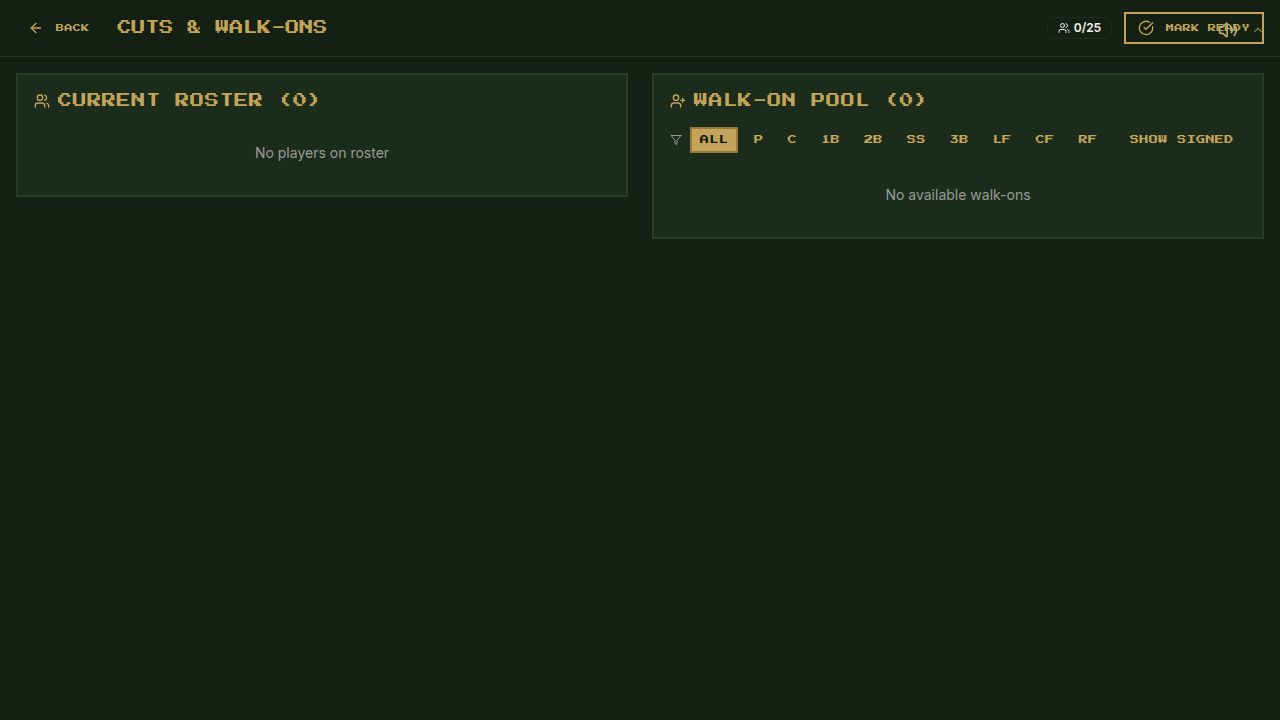
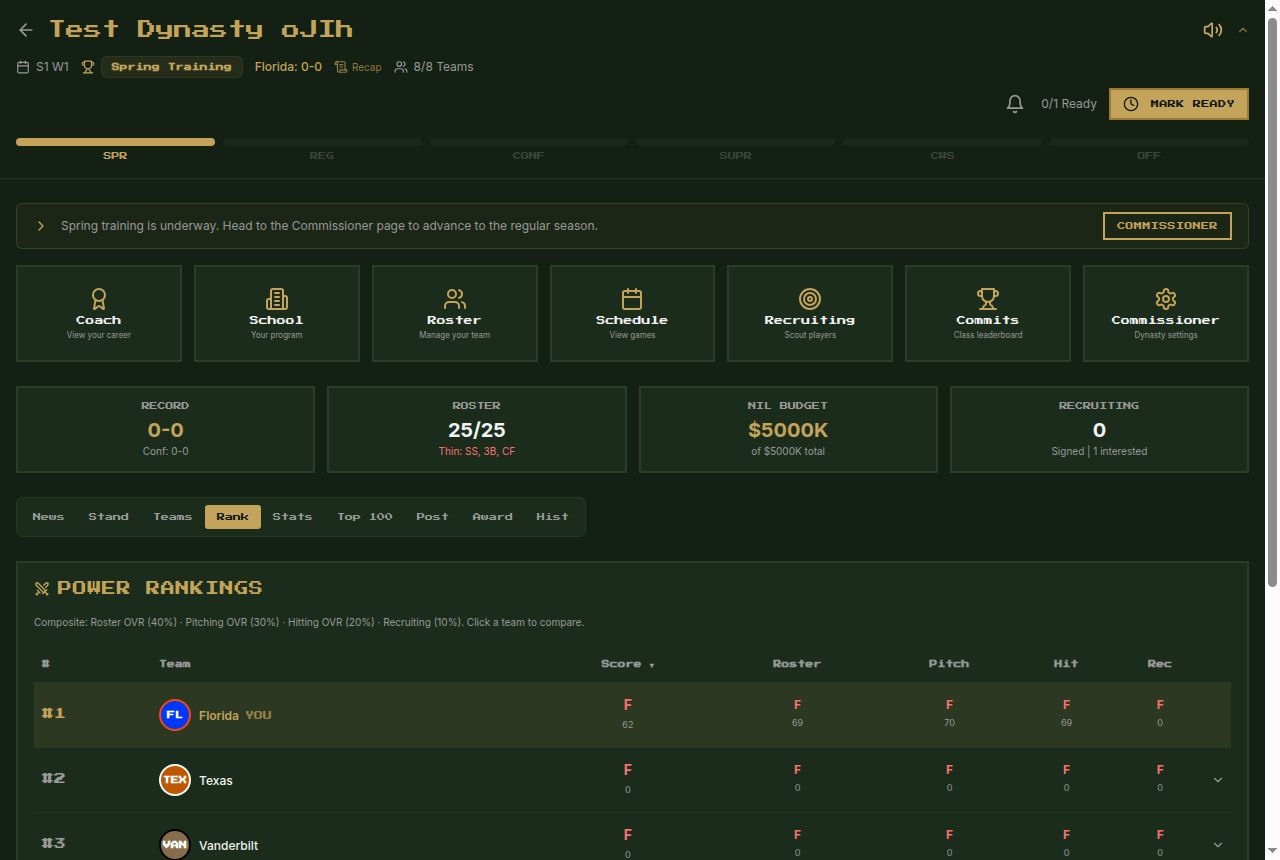
Task #260: Refresh homepage with updated feature copy and new in-game screenshots
## Screenshots (client/public/screenshots/) — 6 distinct files, each mapping to a unique view
- recruiting.jpg — recruiting board with fog-of-war, position/star filters, pipeline views
- commissioner.jpg — commissioner dashboard showing phase control, Advance Week, Quick Actions
- rankings.jpg — RESTORED original power rankings table (team grades, week trends, composite scores)
- player-card.jpg — player profile card with attributes, ability badges, career stats
- walkons.jpg — Cuts & Walk-Ons offseason phase with roster + walk-on pool
- pipeline.jpg — (original, unchanged)
- postseason.jpg removed (was a duplicate of commissioner.jpg)

## DEMO_PHASES — 8 phases, each with a distinct, accurately labelled screenshot
1. SCOUTING REVEAL → recruiting.jpg (context: RECRUITING · SEASON 1 · WEEK 2)
2. PHONE CALL → recruiting.jpg (context: RECRUITING · SEASON 1 · WEEK 3)
3. CAMPUS VISIT → recruiting.jpg (context: RECRUITING · SEASON 1 · WEEK 5)
4. SCHOLARSHIP OFFER → recruiting.jpg (context: RECRUITING · SEASON 1 · WEEK 7)
5. REGULAR SEASON → commissioner.jpg (context: REGULAR SEASON · SEASON 1 · WEEK 1)
6. POWER RANKINGS → rankings.jpg (context: REGULAR SEASON · SEASON 1 · WEEK 8) ← distinct image!
7. PLAYER PROFILE → player-card.jpg (context: REGULAR SEASON · SEASON 1 · WEEK 6) ← distinct image!
8. TRANSFER PORTAL → walkons.jpg (context: OFFSEASON · SEASON 1) ← distinct image!

## GamePreviewTerminal (replaces HeroVideoPlayer + static chrome label)
[…]

diff --git a/client/src/pages/landing.tsx b/client/src/pages/landing.tsx
@@ -160,19 +160,9 @@ export default function LandingPage() {
         {/* ── GAME PREVIEW TERMINAL ─────────────────────────── */}
         <section className="px-4 pb-20">
           <div className="container mx-auto max-w-4xl">
-            <div className="border-2 border-gold/20 bg-card/60" style={{ boxShadow: "0 0 40px rgba(212,168,67,0.08)" }}>
-              <div className="flex items-center gap-2 px-4 py-3 border-b border-gold/15 bg-black/30">
-                <div className="w-2.5 h-2.5 rounded-full bg-red-500/70" />
-                <div className="w-2.5 h-2.5 rounded-full bg-amber-500/70" />
-                <div className="w-2.5 h-2.5 rounded-full bg-green-500/70" />
-                <span className="font-pixel text-[8px] text-gold/40 ml-2 tracking-widest" id="terminal-phase-label">RECRUITING · SEASON 1 · WEEK 4</span>
-              </div>
-              <div className="p-0 overflow-hidden">
-                <HeroVideoPlayer />
-              </div>
-            </div>
+            <GamePreviewTerminal />
             <p className="text-center text-[10px] font-pixel text-muted-foreground/50 mt-3 tracking-wider">
-              REAL PLAYERS · FOG OF WAR SCOUTING · INTEREST TRACKING
+              REAL PLAYERS · FULL SEASON CYCLE · FOG OF WAR RECRUITING
             </p>
           </div>
         </section>
@@ -441,22 +431,22 @@ export default function LandingPage() {
   );
 }
 
-// ── HERO VIDEO PLAYER ─────────────────────────────────────────
+// ── GAME PREVIEW TERMINAL ─────────────────────────────────────
 
 const DEMO_PHASES = [
-  { label: "SCOUTING REVEAL", sub: "Uncover hidden recruit ratings", img: "/screenshots/recruiting.jpg", alt: "Recruiting board with fog-of-war scouting and position filters" },
-  { label: "PHONE CALL", sub: "Build interest with your top targets", img: "/screenshots/recruiting.jpg", alt: "Recruiting board showing interest tracking and watchlist" },
-  { label: "CAMPUS VISIT", sub: "Show off your facilities", img: "/screenshots/recruiting.jpg", alt: "Recruiting pipeline with campus visit stage and interest bars" },
-  { label: "SCHOLARSHIP OFFER", sub: "Close the deal with NIL money", img: "/screenshots/recruiting.jpg", alt: "Recruiting board showing scholarship offer actions" },
-  { label: "REGULAR SEASON", sub: "Simulate games and track standings", img: "/screenshots/commissioner.jpg", alt: "Commissioner dashboard showing league phase, advance week, and quick actions" },
-  { label: "POWER RANKINGS", sub: "Composite scores updated weekly", img: "/screenshots/commissioner.jpg", alt: "Commissioner dashboard showing league standings and power rankings" },
-  { label: "COLLEGE WORLD SERIES", sub: "Best-of-3 bracket for the title", img: "/screenshots/postseason.jpg", alt: "Commissioner dashboard showing season phase, advance week controls, and postseason progression" },
-  { label: "TRANSFER PORTAL", sub: "Sign portal players or lose yours", img: "/screenshots/walkons.jpg", alt: "Cuts and Walk-Ons offseason phase with roster management and walk-on pool" },
+  { label: "SCOUTING REVEAL", sub: "Uncover hidden recruit ratings", context: "RECRUITING · SEASON 1 · WEEK 2", img: "/screenshots/recruiting.jpg", alt: "Recruiting board with fog-of-war scouting, position filters, and stage-view buttons" },
+  { label: "PHONE CALL", sub: "Build interest with your top targets", context: "RECRUITING · SEASON 1 · WEEK 3", img: "/screenshots/recruiting.jpg", alt: "Recruiting board showing interest tracking, watchlist, and weekly action limits" },
+  { label: "CAMPUS VISIT", sub: "Show off your facilities to top recruits", context: "RECRUITING · SEASON 1 · WEEK 5", img: "/screenshots/recruiting.jpg", alt: "Recruiting pipeline with campus visit stage and contested-recruit filter" },
+  { label: "SCHOLARSHIP OFFER", sub: "Close the deal with NIL money", context: "RECRUITING · SEASON 1 · WEEK 7", img: "/screenshots/recruiting.jpg", alt: "Recruiting board showing scholarship offer actions and commit tracking" },
+  { label: "REGULAR SEASON", sub: "Simulate games and track standings", context: "REGULAR SEASON · SEASON 1 · WEEK 1", img: "/screenshots/commissioner.jpg", alt: "Commissioner dashboard showing Spring Training phase, Advance Week button, and Quick Actions menu" },
+  { label: "POWER RANKINGS", sub: "Composite scores updated every week", context: "REGULAR SEASON · SEASON 1 · WEEK 8", img: "/screenshots/rankings.jpg", alt: "In-game power rankings table showing team grades, week-over-week trends, and composite scores" },
+  { label: "PLAYER PROFILE", sub: "Deep stats on every player on your roster", context: "REGULAR SEASON · SEASON 1 · WEEK 6", img: "/screenshots/player-card.jpg", alt: "In-game player profile card showing attributes, special ability badges, and career season stats" },
+  { label: "TRANSFER PORTAL", sub: "Sign portal players or lose yours", context: "OFFSEASON · SEASON 1", img: "/screenshots/walkons.jpg", alt: "Cuts and Walk-Ons offseason page showing roster panel and walk-on pool with position filters" },
 ];
 
 const PHASE_DURATION = 3200;
 
-function HeroVideoPlayer() {
+function GamePreviewTerminal() {
   const [phaseIndex, setPhaseIndex] = useState(0);
   const [visible, setVisible] = useState(true);
 
@@ -478,35 +468,50 @@ function HeroVideoPlayer() {
   const phase = DEMO_PHASES[phaseIndex];
 
   return (
-    <div className="relative overflow-hidden">
-      <img
-        key={phase.img}
-        src={phase.img}
-        alt={phase.alt}
-        className="w-full h-auto block"
-        style={{
-          opacity: visible ? 1 : 0,
-          transition: "opacity 0.28s ease",
-        }}
-      />
-      <div
-        className="absolute top-0 left-0 right-0 flex items-center gap-3 px-4 py-2.5 bg-black/70 border-b border-gold/20"
-        style={{
-          opacity: visible ? 1 : 0,
-          transform: visible ? "translateY(0)" : "translateY(-6px)",
-          transition: "opacity 0.28s ease, transform 0.28s ease",
-        }}
-      >
-        <span className="font-pixel text-[9px] text-gold tracking-widest">{phase.label}</span>
-        <span className="text-[9px] text-muted-foreground hidden sm:inline">—</span>
-        <span className="text-[9px] text-muted-foreground hidden sm:inline">{phase.sub}</span>
-        <div className="ml-auto flex gap-1">
-          {DEMO_PHASES.map((_, i) => (
-            <div
-              key={i}
-              className={`h-1 rounded-full transition-all duration-300 ${i === phaseIndex ? "w-5 bg-gold" : "w-1.5 bg-gold/25"}`}
-            />
-          ))}
+    <div className="border-2 border-gold/20 bg-card/60" style={{ boxShadow: "0 0 40px rgba(212,168,67,0.08)" }}>
+      {/* Chrome bar — context label synced to active phase */}
+      <div className="flex items-center gap-2 px-4 py-3 border-b border-gold/15 bg-black/30">
+        <div className="w-2.5 h-2.5 rounded-full bg-red-500/70" />
+        <div className="w-2.5 h-2.5 rounded-full bg-amber-500/70" />
+        <div className="w-2.5 h-2.5 rounded-full bg-green-500/70" />
+        <span
+          className="font-pixel text-[8px] text-gold/40 ml-2 tracking-widest transition-opacity duration-300"
+          style={{ opacity: visible ? 1 : 0 }}
+        >
+          {phase.context}
+        </span>
+      </div>
+      {/* Screenshot cycling */}
+      <div className="relative overflow-hidden">
+        <img
+          key={phase.img + phaseIndex}
+          src={phase.img}
+          alt={phase.alt}
+          className="w-full h-auto block"
+          style={{
+            opacity: visible ? 1 : 0,
+            transition: "opacity 0.28s ease",
+          }}
+        />
+        <div
+          className="absolute top-0 left-0 right-0 flex items-center gap-3 px-4 py-2.5 bg-black/70 border-b border-gold/20"
+          style={{
+            opacity: visible ? 1 : 0,
+            transform: visible ? "translateY(0)" : "translateY(-6px)",
+            transition: "opacity 0.28s ease, transform 0.28s ease",
+          }}
+        >
+          <span className="font-pixel text-[9px] text-gold tracking-widest">{phase.label}</span>
+          <span className="text-[9px] text-muted-foreground hidden sm:inline">—</span>
+          <span className="text-[9px] text-muted-foreground hidden sm:inline">{phase.sub}</span>
+          <div className="ml-auto flex gap-1">
+            {DEMO_PHASES.map((_, i) => (
+              <div
+                key={i}
+                className={`h-1 rounded-full transition-all duration-300 ${i === phaseIndex ? "w-5 bg-gold" : "w-1.5 bg-gold/25"}`}
+              />
+            ))}
+          </div>
         </div>
       </div>
     </div>